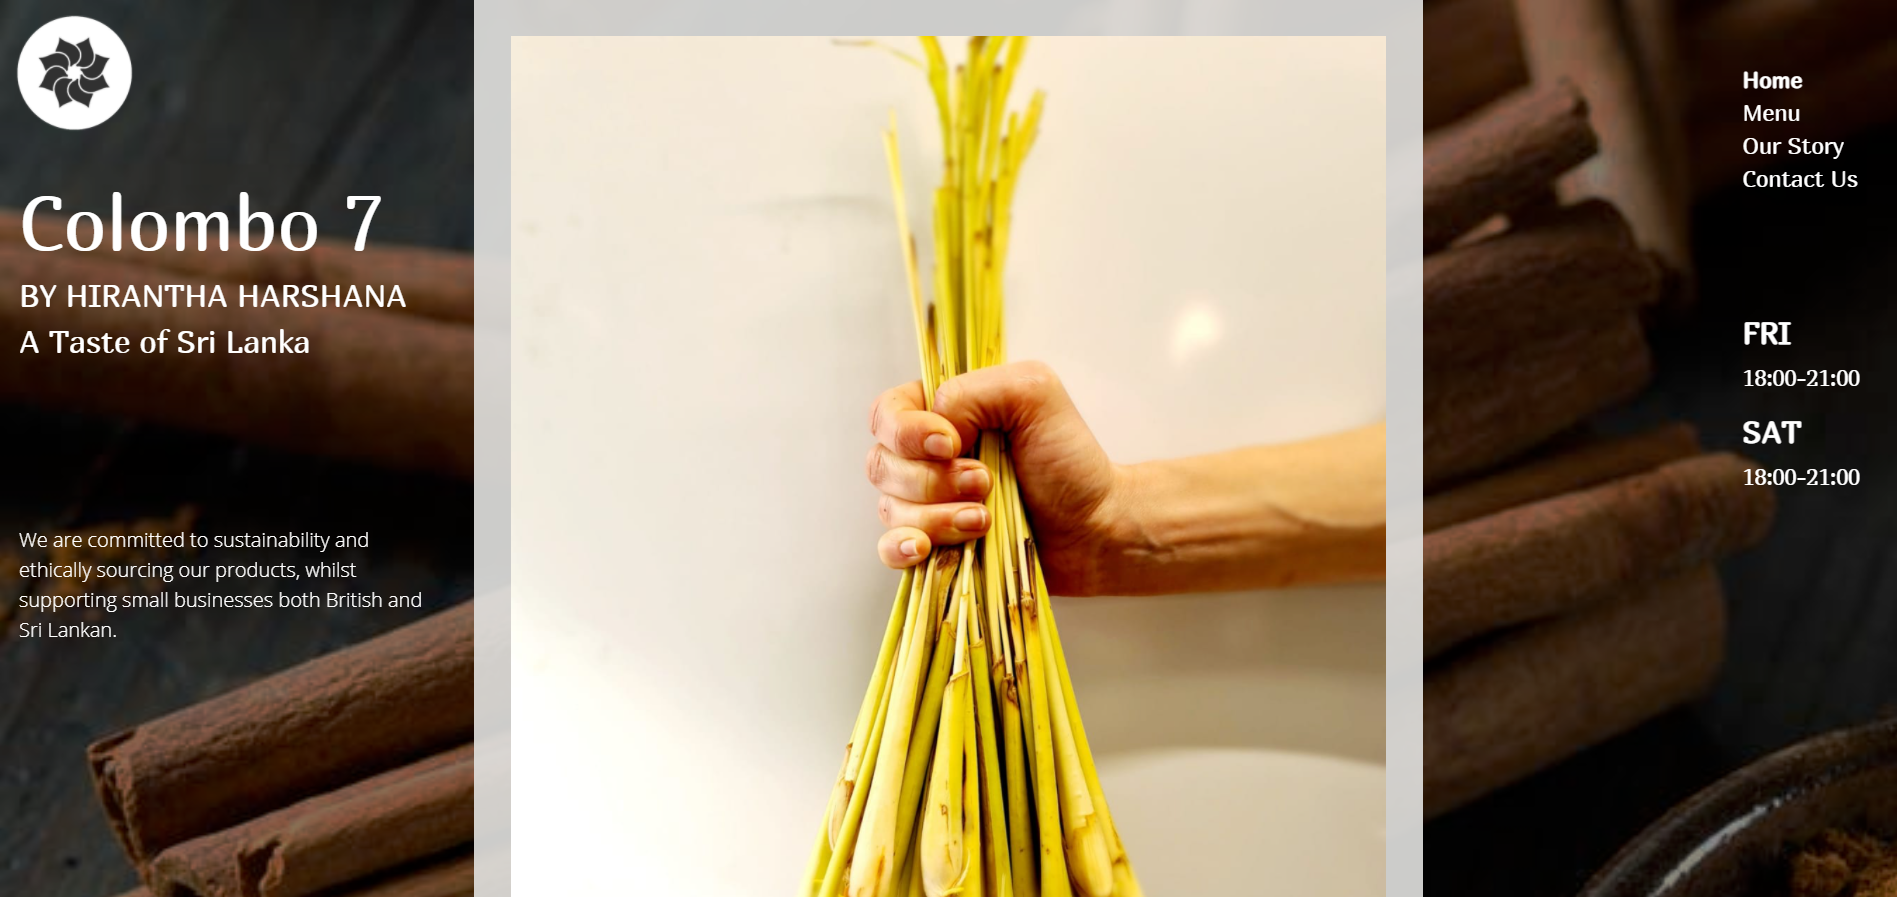
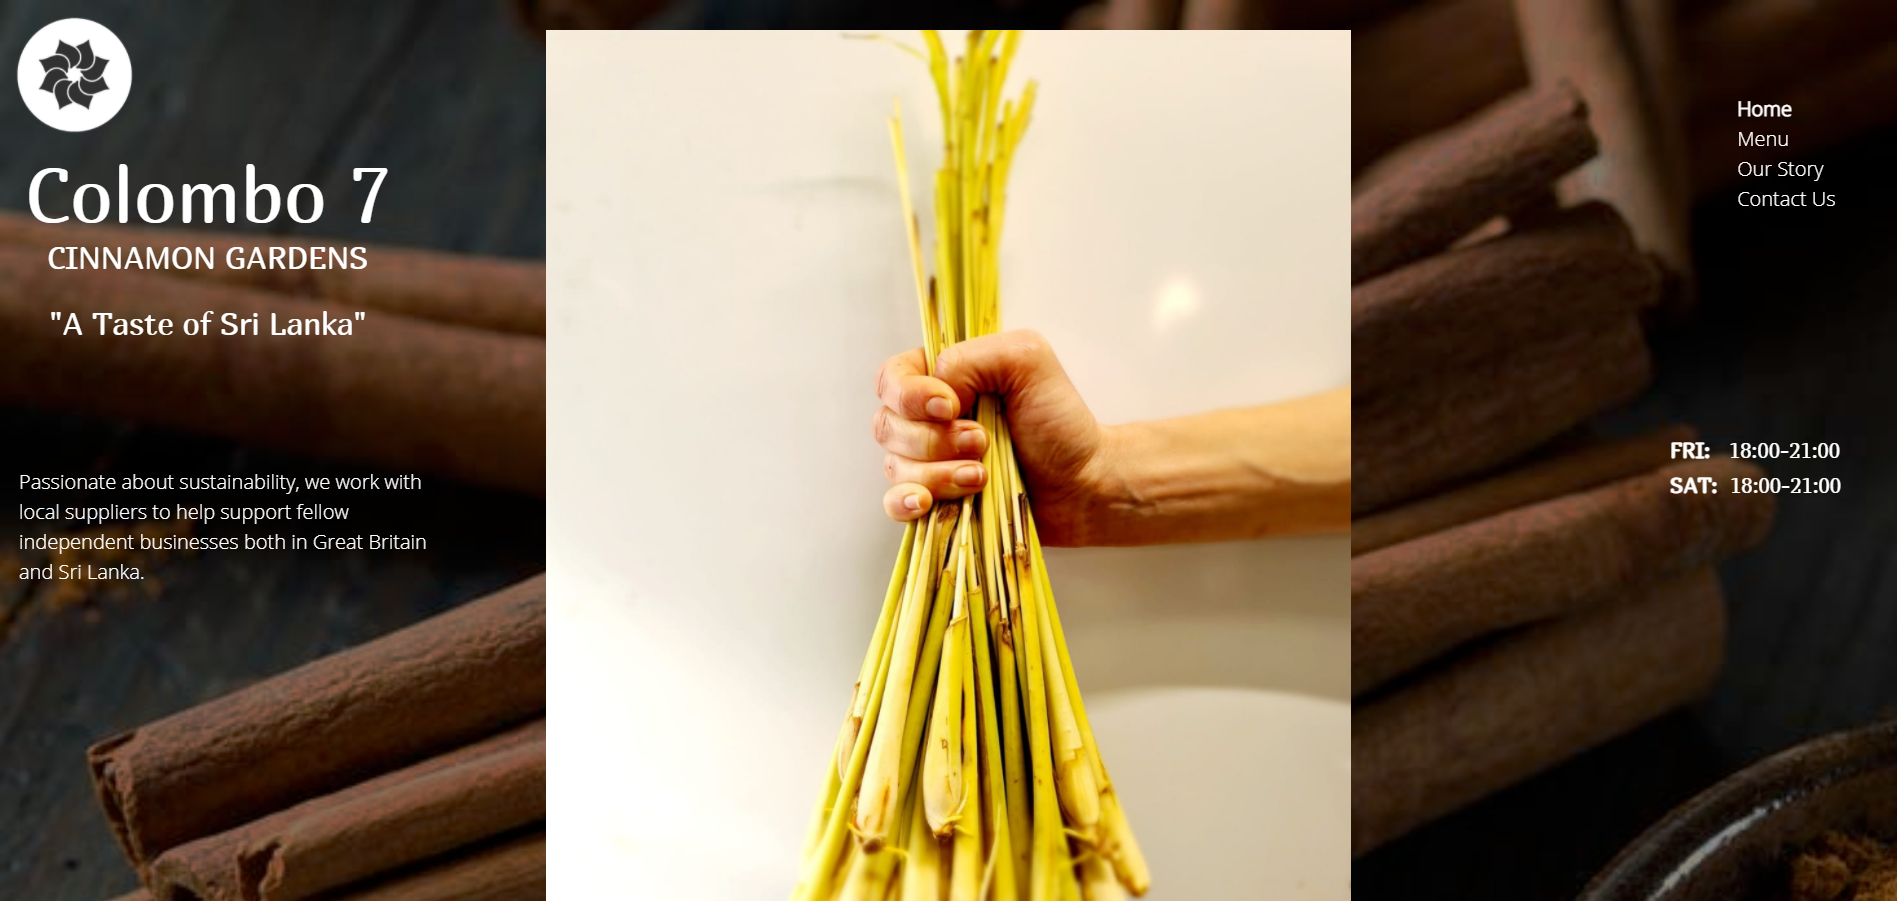
Updated Cinnamon Gardens project images and project links and replaced Dens Pens with No.67 Hairdressers

diff --git a/index.html b/index.html
@@ -130,7 +130,7 @@
                 </div>
               </div>
               <a
-                href="https://friendly-albattani-e57059.netlify.app"
+                href="https://colombo7-cinnamongardens.netlify.app/"
                 target="_blank"
                 class="btn btn-info d-block"
                 >Go to Website</a
@@ -168,7 +168,7 @@
                 </div>
               </div>
               <a
-                href="https://dreamy-jang-ea62e6.netlify.app"
+                href="https://incredibles-first-website-ever.netlify.app"
                 target="_blank"
                 class="btn btn-info d-block"
                 >Go to Website</a
@@ -209,13 +209,13 @@
                 </div>
               </div>
               <a
-                href="https://frosty-hodgkin-d39b6a.netlify.app"
+                href="https://weather-project-vanilla.netlify.app"
                 target="_blank"
                 class="btn btn-info d-block"
                 >Go to Vanilla Website</a
               >
               <a
-                href="https://distracted-goodall-6e7c75.netlify.app"
+                href="https://weather-project-react.netlify.app"
                 target="_blank"
                 class="btn btn-info d-block mt-1"
                 >Go to React Website</a
@@ -224,18 +224,21 @@
           </div>
           <div class="card">
             <img
-              src="/media/projects/sm-images/dens-pens-sm.png"
+              src="/media/projects/sm-images/67-hairdressers-sm.png"
               class="card-img-top"
-              alt="Den's Pens Small-Screen Preview"
+              alt="No. 67 Hairdressers Small-Screen Preview"
             />
             <div class="card-body">
-              <h5 class="card-title-sm font-weight-bold">Den's Pens</h5>
+              <h5 class="card-title-sm font-weight-bold">
+                No. 67 Hairdressers
+              </h5>
               <p>
-                Being a desperately talented maker of fountain pens and personal
-                friend of mine, I volunteered to remake Dennis's website based
-                upon his current version but with some improvements to
-                functionality and responsivity. This project is still a work in
-                progress but I'm convinced it's coming along rather nicely.
+                Whilst working on Cinnamon Gardens (see above), I was approached
+                by another small and local business looking for their own
+                website. Although there are many elements that are still 'under
+                construction' such as colour, background image, and additional
+                page content, the basic format and responsivity of this website
+                is functional.
               </p>
               <div>
                 <div class="fa-3x d-flex justify-content-around">
@@ -250,7 +253,7 @@
                 </div>
               </div>
               <a
-                href="https://quizzical-bhaskara-cb627f.netlify.app"
+                href="https://no67-hairdressers.netlify.app/"
                 target="_blank"
                 class="btn btn-info d-block"
                 >Go to Website</a
@@ -263,7 +266,7 @@
         <div class="row mt-3">
           <div class="col-md-12">
             <a
-              href="https://friendly-albattani-e57059.netlify.app"
+              href="https://colombo7-cinnamongardens.netlify.app/"
               target="_blank"
             >
               <div class="card bg-dark text-white">
@@ -299,7 +302,10 @@
         </div>
         <div class="row">
           <div class="col-md-6 mt-3">
-            <a href="https://dreamy-jang-ea62e6.netlify.app" target="_blank">
+            <a
+              href="https://incredibles-first-website-ever.netlify.app"
+              target="_blank"
+            >
               <div class="card bg-dark text-white">
                 <img
                   src="/media/projects/the-incredibles.png"
@@ -354,14 +360,14 @@
                   >. Interactive and informative featuring the user's current
                   date, time and location in both
                   <a
-                    href="https://frosty-hodgkin-d39b6a.netlify.app"
+                    href="https://weather-project-vanilla.netlify.app"
                     target="_blank"
                     class="link"
                     >Vanilla JavaScript</a
                   >
                   and
                   <a
-                    href="https://distracted-goodall-6e7c75.netlify.app"
+                    href="https://weather-project-react.netlify.app"
                     target="_blank"
                     class="link"
                     >React</a
@@ -386,25 +392,24 @@
         </div>
         <div class="row mt-3">
           <div class="col-md-12">
-            <a
-              href="https://quizzical-bhaskara-cb627f.netlify.app"
-              target="_blank"
-            >
+            <a href="https://no67-hairdressers.netlify.app/" target="_blank">
               <div class="card bg-dark text-white">
                 <img
-                  src="/media/projects/dens-pens.png"
+                  src="/media/projects/67-hairdressers.png"
                   class="card-img"
-                  alt="Den's Pens Preview"
+                  alt="No. 67 Hairdressers Preview"
                 />
                 <div class="card-img-overlay card-img-overlay-md">
-                  <h5 class="card-title font-weight-bold">Den's Pens</h5>
+                  <h5 class="card-title font-weight-bold">
+                    No. 67 Hairdressers
+                  </h5>
                   <p class="card-text">
-                    Being a desperately talented maker of fountain pens and
-                    personal friend of mine, I volunteered to remake Dennis's
-                    website based upon his current version but with some
-                    improvements to functionality and responsivity. This project
-                    is still a work in progress but I'm convinced it's coming
-                    along rather nicely.
+                    Whilst working on Cinnamon Gardens (see above), I was
+                    approached by another small and local business looking for
+                    their own website. Although there are many elements that are
+                    still 'under construction' such as colour, background image,
+                    and additional page content, the basic format and
+                    responsivity of this website is functional.
                   </p>
                   <br />
                   <div class="fa-3x d-flex justify-content-around">
